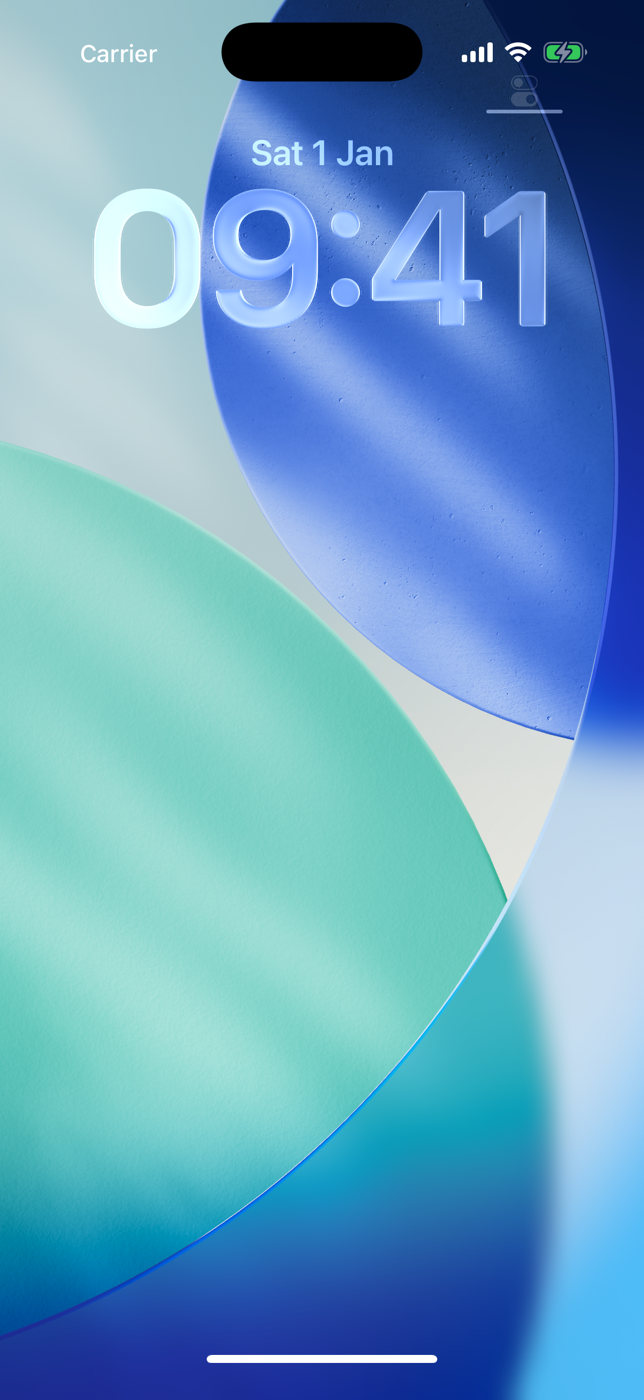
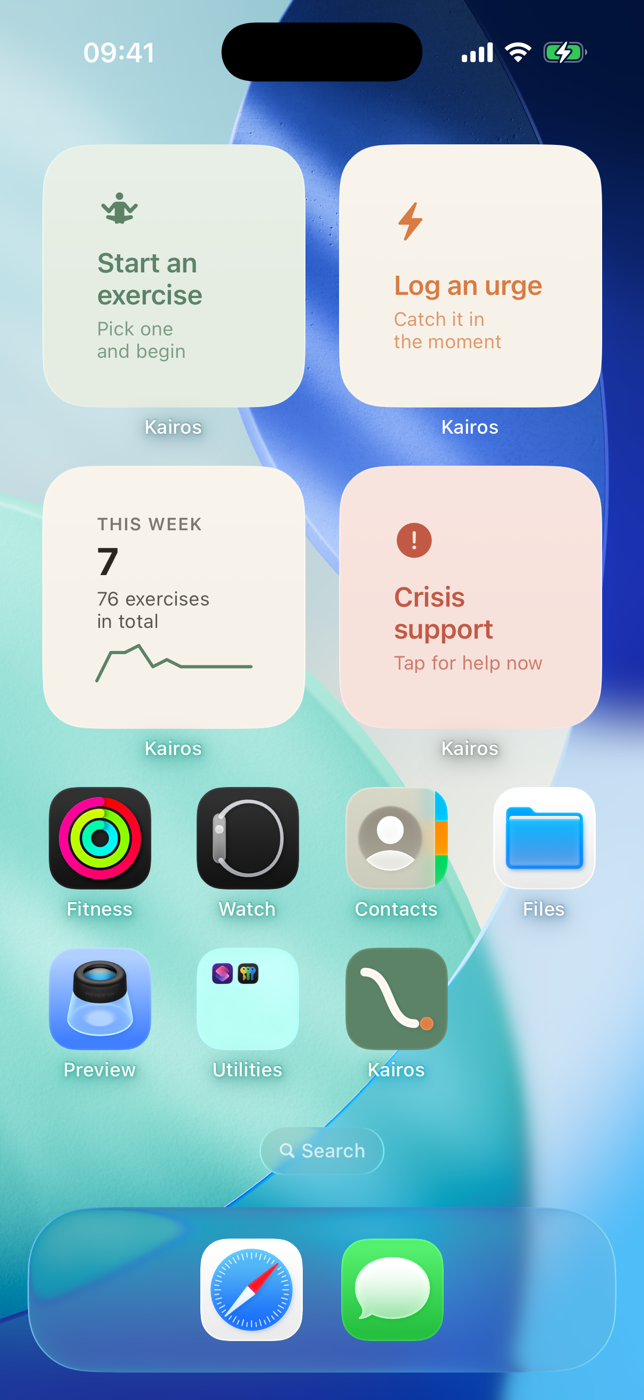
Site: real widgets screenshot, gradient section bands, carousel that fits
widgets.png was a bare lock-screen wallpaper with no Kairos widgets on it; it
is now the Home Screen with the four widgets placed.

The coloured bands (the green statement band and the footer) now blend into
the page over about 110px instead of cutting in. The showcase was a centred
scroller that overflowed on both sides, cutting off and stranding its first
tiles; on wider screens it is now a grid, four across.

diff --git a/index.html b/index.html
@@ -17,7 +17,7 @@
 <meta property="og:image:height" content="630">
 <meta property="og:image:alt" content="The Kairos mark: a line falling and levelling off, with the most recent point picked out.">
 <meta name="twitter:card" content="summary_large_image">
-<link rel="stylesheet" href="style.css?v=20261017"></head>
+<link rel="stylesheet" href="style.css?v=20261018"></head>
 <body>
 <div class="band hero-band">
 <div class="wrap wide">
@@ -52,7 +52,7 @@
 <section class="showcase" aria-label="Screens from the app">
 <h2 class="big center">See inside</h2>
 <p class="center sub">A closer look at the app.</p>
-<div class="track" tabindex="0" role="region" aria-label="App screens, scrollable"><figure class="slide dup"><div class="tile t1"><div class="frame"><img src="img/home.png?v=20261018" width="644" height="1400" loading="lazy" alt="Home screen with your progress and the next exercise"></div></div><figcaption><strong>Home</strong><span>Where you are, and one clear next step.</span></figcaption></figure><figure class="slide"><div class="tile t2"><div class="frame"><img src="img/exercise.png?v=20261018" width="644" height="1400" loading="lazy" alt="An exercise with what to avoid and a box for what you fear will happen"></div></div><figcaption><strong>Exercises</strong><span>Face a fear on purpose, and write down what you expect.</span></figcaption></figure><figure class="slide dup"><div class="tile t3"><div class="frame"><img src="img/urge.png?v=20261018" width="644" height="1400" loading="lazy" alt="The urge log with a 0 to 10 scale and triggers"></div></div><figcaption><strong>Log an urge</strong><span>A few taps, wherever you are, whatever happened.</span></figcaption></figure><figure class="slide dup"><div class="tile t4"><div class="frame"><img src="img/progress.png?v=20261018" width="644" height="1400" loading="lazy" alt="Week, month and year charts"></div></div><figcaption><strong>Progress</strong><span>Week, month and year, at a glance.</span></figcaption></figure><figure class="slide"><div class="tile t5"><div class="frame"><img src="img/patterns.png?v=20261018" width="644" height="1400" loading="lazy" alt="A pattern card with a falling trend line"></div></div><figcaption><strong>Patterns</strong><span>Watch each pattern ease, with the numbers behind it.</span></figcaption></figure><figure class="slide"><div class="tile t7"><div class="frame"><img src="img/widgets.png?v=20261017" width="644" height="1400" loading="lazy" alt="Four Kairos widgets on the iPhone Home Screen: start an exercise, log an urge, this week's progress and crisis support"></div></div><figcaption><strong>Widgets</strong><span>Start, log or get help from the Home Screen.</span></figcaption></figure><figure class="slide"><div class="tile t6"><div class="frame"><img src="img/crisis.png?v=20261018" width="644" height="1400" loading="lazy" alt="Crisis support with UK and US helplines"></div></div><figcaption><strong>Crisis support</strong><span>Always one tap away, even before you sign in.</span></figcaption></figure></div>
+<div class="track" tabindex="0" role="region" aria-label="App screens, scrollable"><figure class="slide dup"><div class="tile t1"><div class="frame"><img src="img/home.png?v=20261018" width="644" height="1400" loading="lazy" alt="Home screen with your progress and the next exercise"></div></div><figcaption><strong>Home</strong><span>Where you are, and one clear next step.</span></figcaption></figure><figure class="slide"><div class="tile t2"><div class="frame"><img src="img/exercise.png?v=20261018" width="644" height="1400" loading="lazy" alt="An exercise with what to avoid and a box for what you fear will happen"></div></div><figcaption><strong>Exercises</strong><span>Face a fear on purpose, and write down what you expect.</span></figcaption></figure><figure class="slide dup"><div class="tile t3"><div class="frame"><img src="img/urge.png?v=20261018" width="644" height="1400" loading="lazy" alt="The urge log with a 0 to 10 scale and triggers"></div></div><figcaption><strong>Log an urge</strong><span>A few taps, wherever you are, whatever happened.</span></figcaption></figure><figure class="slide dup"><div class="tile t4"><div class="frame"><img src="img/progress.png?v=20261018" width="644" height="1400" loading="lazy" alt="Week, month and year charts"></div></div><figcaption><strong>Progress</strong><span>Week, month and year, at a glance.</span></figcaption></figure><figure class="slide"><div class="tile t5"><div class="frame"><img src="img/patterns.png?v=20261018" width="644" height="1400" loading="lazy" alt="A pattern card with a falling trend line"></div></div><figcaption><strong>Patterns</strong><span>Watch each pattern ease, with the numbers behind it.</span></figcaption></figure><figure class="slide"><div class="tile t7"><div class="frame"><img src="img/widgets.png?v=20261018" width="644" height="1400" loading="lazy" alt="Four Kairos widgets on the iPhone Home Screen: start an exercise, log an urge, this week's progress and crisis support"></div></div><figcaption><strong>Widgets</strong><span>Start, log or get help from the Home Screen.</span></figcaption></figure><figure class="slide"><div class="tile t6"><div class="frame"><img src="img/crisis.png?v=20261018" width="644" height="1400" loading="lazy" alt="Crisis support with UK and US helplines"></div></div><figcaption><strong>Crisis support</strong><span>Always one tap away, even before you sign in.</span></figcaption></figure></div>
 <p class="fine center">Screens show sample data.</p>
 </section>
 

diff --git a/style.css b/style.css
@@ -145,3 +145,16 @@ h2.how{margin-top:36px}
 .t1{--tint:var(--t1)}.t2{--tint:var(--t2)}.t3{--tint:var(--t3)}.t4{--tint:var(--t4)}.t5{--tint:var(--t5)}.t6{--tint:var(--t6)}.t7{--tint:var(--t7)}
 .slide{flex:0 0 min(300px,74vw)}
 @media(min-width:1000px){.slide{flex-basis:300px}}
+
+/* Section changes ease in and out instead of cutting: each coloured band blends
+   to the page colour over ~110px at its top and bottom. */
+.quote-band{background:linear-gradient(to bottom,var(--bg) 0,#2F4A38 110px,#2F4A38 calc(100% - 110px),var(--bg) 100%);padding-top:186px;padding-bottom:186px;margin-top:0}
+.foot-band{background:linear-gradient(to bottom,var(--bg) 0,#24201B 120px);padding-top:156px;margin-top:0}
+
+/* Showcase on wider screens: a centred grid. The old centred scroller overflowed
+   on both sides, which cut the first tiles off and left them unreachable. */
+@media(min-width:701px){
+  .track{display:grid;grid-template-columns:repeat(2,minmax(0,270px));justify-content:center;gap:28px 22px;overflow:visible;max-width:1200px;margin:0 auto;padding:10px 20px 22px;scroll-snap-type:none}
+  .slide{flex:none;margin:0}
+}
+@media(min-width:1100px){.track{grid-template-columns:repeat(4,minmax(0,240px))}}
